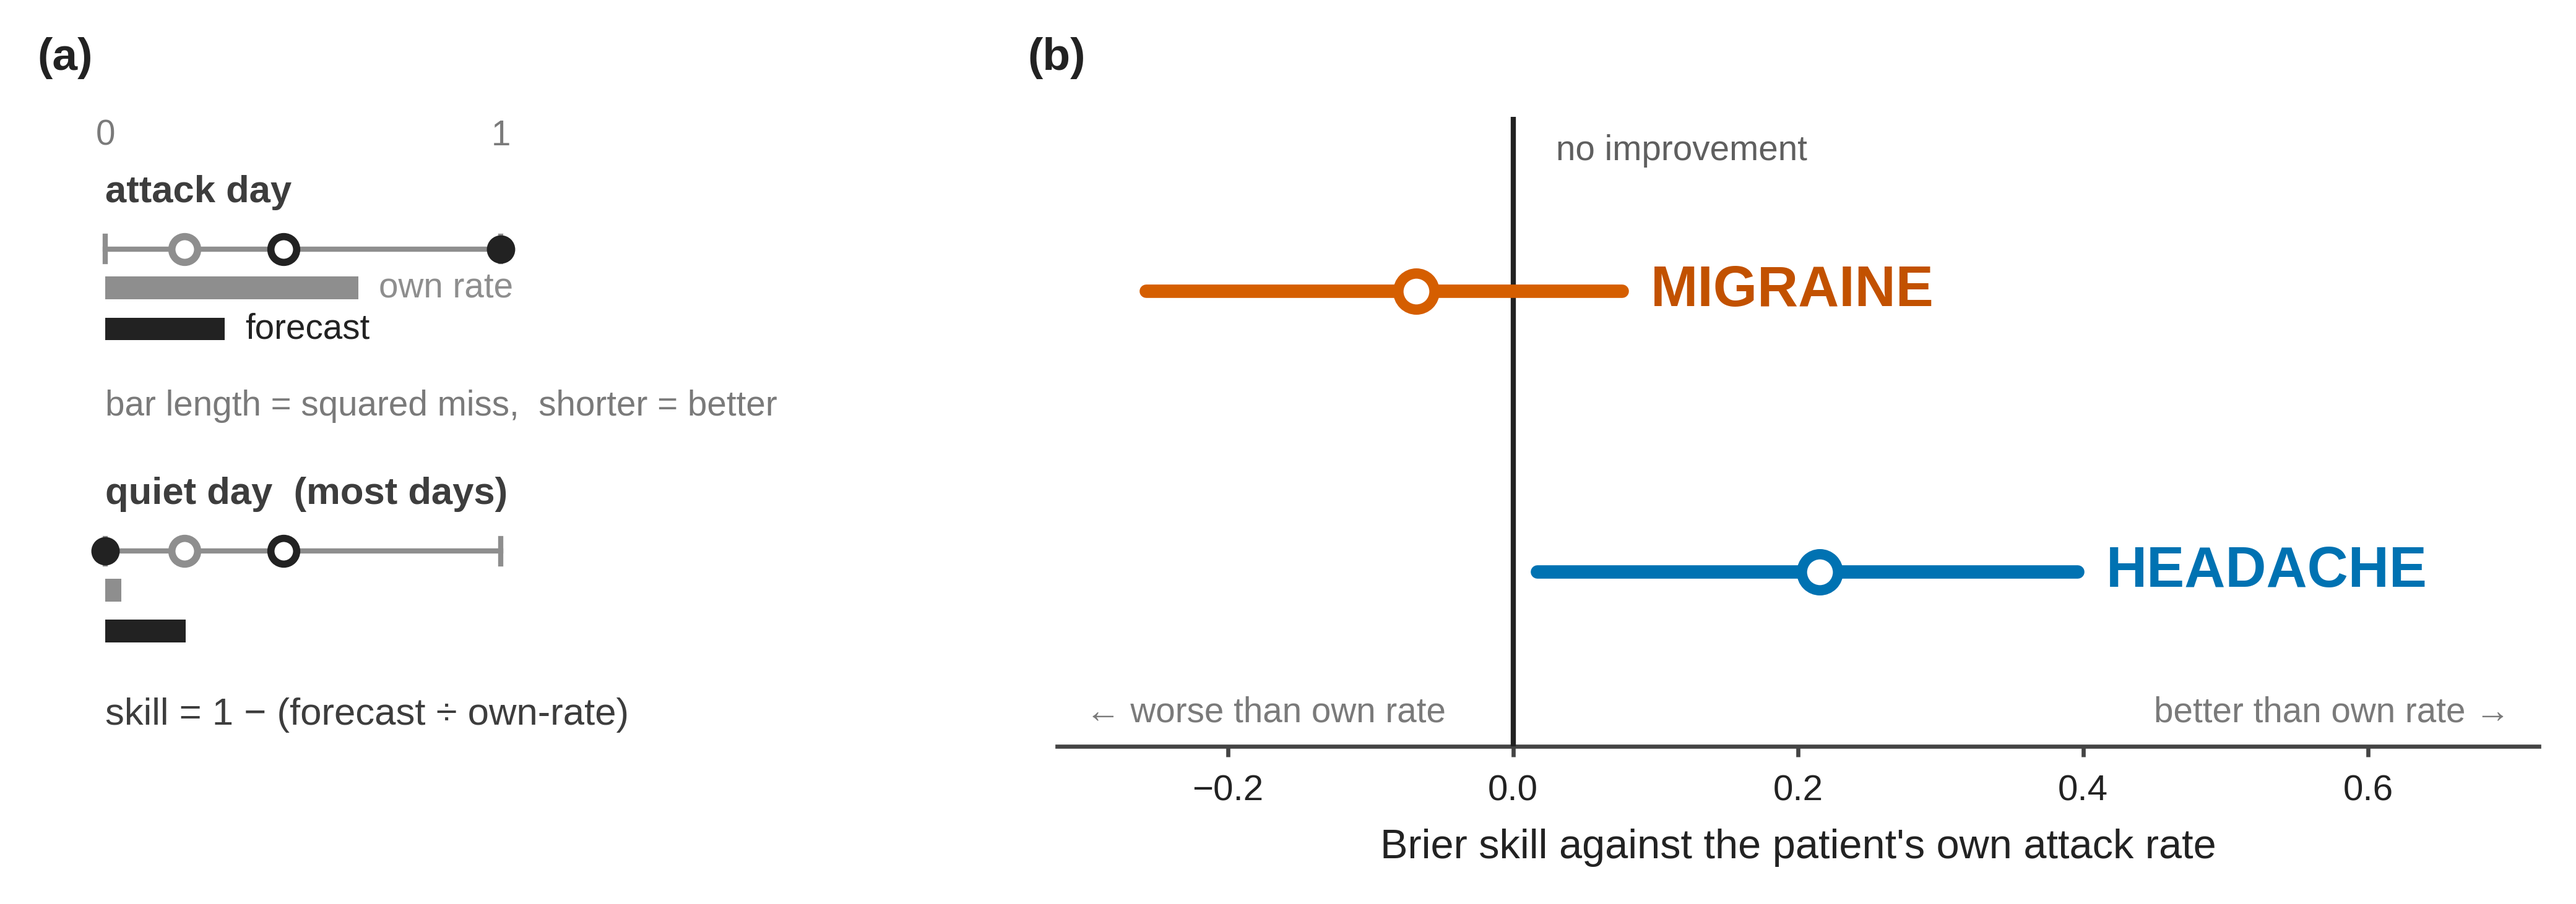
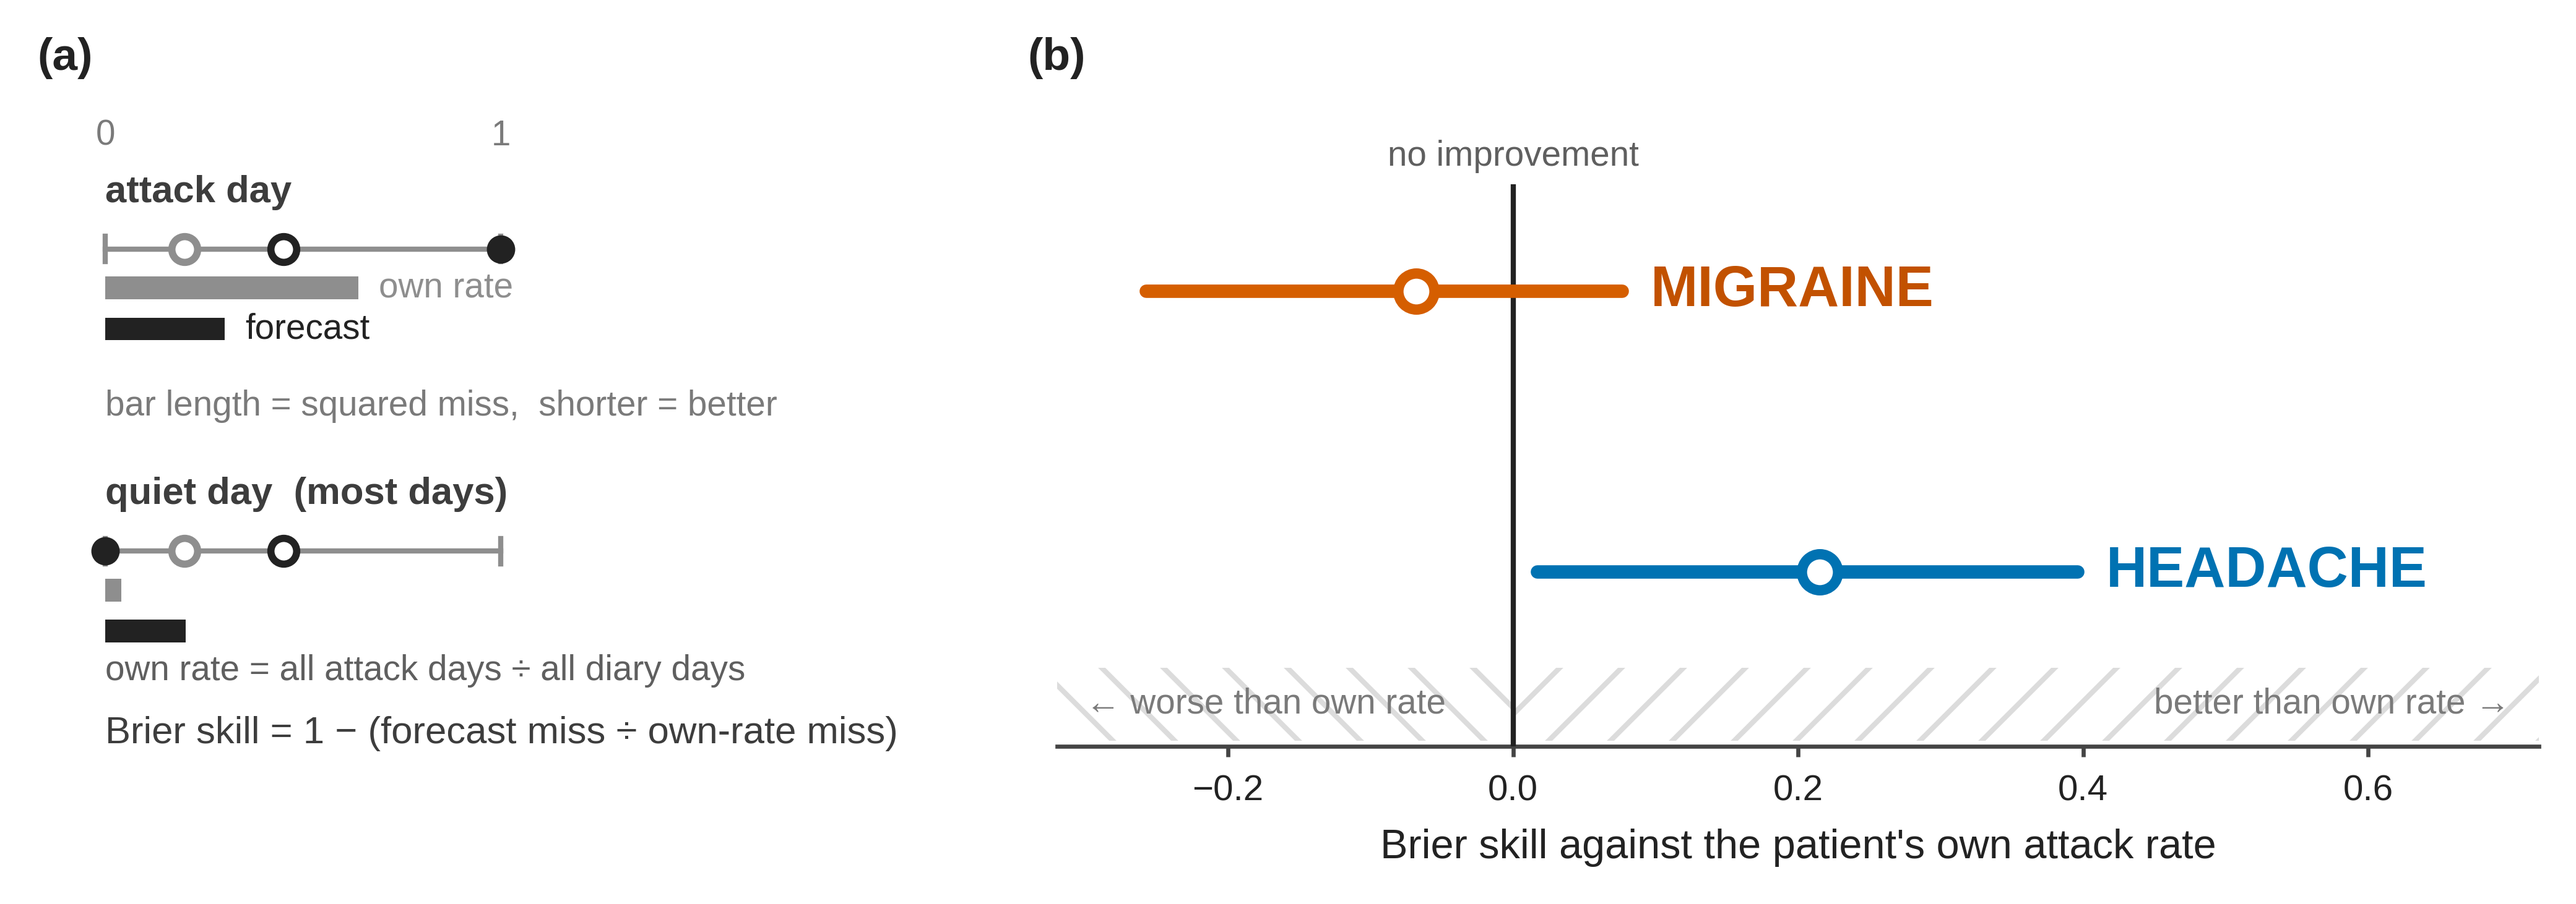
m3fix

diff --git a/docs/methodAndResults_diagramCreatorScripts/fig_m_evaluation_series.py b/docs/methodAndResults_diagramCreatorScripts/fig_m_evaluation_series.py
@@ -180,7 +180,9 @@ def _how_brier(ax):
             if ticks:                               # name the bars once, top row only
                 _lab(ax, x0 + w + 3, y + dy + 1.8, nm, PT_FINE, col)
     _lab(ax, x0, 54, "bar length = squared miss,  shorter = better", PT_FINE, THIRD)
-    _lab(ax, x0, 5, "skill = 1 \u2212 (forecast \u00f7 own-rate)", PT_BODY, BODY)
+    _lab(ax, x0, 12, "own rate = all attack days \u00f7 all diary days", PT_FINE, SECOND)
+    _lab(ax, x0, 2, "Brier skill = 1 \u2212 (forecast miss \u00f7 own-rate miss)",
+         PT_BODY, BODY)
 
 
 def _how_dca(ax):
@@ -207,7 +209,15 @@ def _how_dca(ax):
 
 
 def _skill_panel(ax, rows, cols):
-    ax.axvline(0.0, color=S.INK, lw=1.0, zorder=3)
+    # hatched bands, each unique, so "worse" and "better" name a REGION rather than
+    # floating as words under the axis
+    # a band under each side rather than a full-height wash: it names the region
+    # without competing with the intervals drawn on top of it
+    for x0b, w, hat in ((-0.32, 0.32, "\\\\"), (0.0, 0.72, "//")):
+        ax.add_patch(Rectangle((x0b, -0.60), w, 0.26, facecolor="none",
+                               edgecolor="#dcdcdc", hatch=hat, lw=0.0, zorder=0))
+    # vlines rather than axvline, so the rule stops short of its own label
+    ax.vlines(0.0, -0.62, 1.38, color=S.INK, lw=1.0, zorder=3)
     for i, ((tgt, r), col) in enumerate(zip(rows, cols)):
         yy = 1 - i
         lo, hi = float(r["bs_cluster_lo"]), float(r["bs_cluster_hi"])
@@ -215,9 +225,9 @@ def _skill_panel(ax, rows, cols):
         ax.plot([float(r["brier_skill"])], [yy], "o", ms=7, mfc="white", mec=col,
                 mew=2.0, zorder=5)
         _lab(ax, hi + 0.02, yy, tgt.upper(), PT_VALUE, MIG_TEXT if tgt == "migraine" else HEA_TEXT, weight="bold")
-    _lab(ax, 0.03, 1.50, "no improvement", PT_FINE, SECOND, ha="left")
-    _lab(ax, -0.30, -0.50, "\u2190 worse than own rate", PT_FINE, THIRD)
-    _lab(ax, 0.70, -0.50, "better than own rate \u2192", PT_FINE, THIRD,
+    _lab(ax, 0.0, 1.48, "no improvement", PT_FINE, SECOND, ha="center")
+    _lab(ax, -0.30, -0.47, "\u2190 worse than own rate", PT_FINE, THIRD)
+    _lab(ax, 0.70, -0.47, "better than own rate \u2192", PT_FINE, THIRD,
          ha="right")
     ax.set_ylim(-0.62, 1.62); ax.set_xlim(-0.32, 0.72)  # room for the 11pt target word
     ax.set_yticks([]); ax.tick_params(axis="x", labelsize=PT_TICK, length=2)

diff --git a/docs/methodAndResults_diagramCreatorScripts/check_label_overlap.py b/docs/methodAndResults_diagramCreatorScripts/check_label_overlap.py
@@ -76,6 +76,8 @@ def _spy(fig, path):
                     v = inter(te, oe)
                     if v and v[0] > 1.5 and v[1] > 1.5:
                         hits.append(("TEXT/FILL", tname, oname, v))
+                elif art.get_linewidth() == 0:
+                    pass          # an outline of zero width draws nothing
                 else:
                     edges = [((oe.x0, oe.y0), (oe.x1, oe.y0)), ((oe.x1, oe.y0), (oe.x1, oe.y1)),
                              ((oe.x1, oe.y1), (oe.x0, oe.y1)), ((oe.x0, oe.y1), (oe.x0, oe.y0))]
